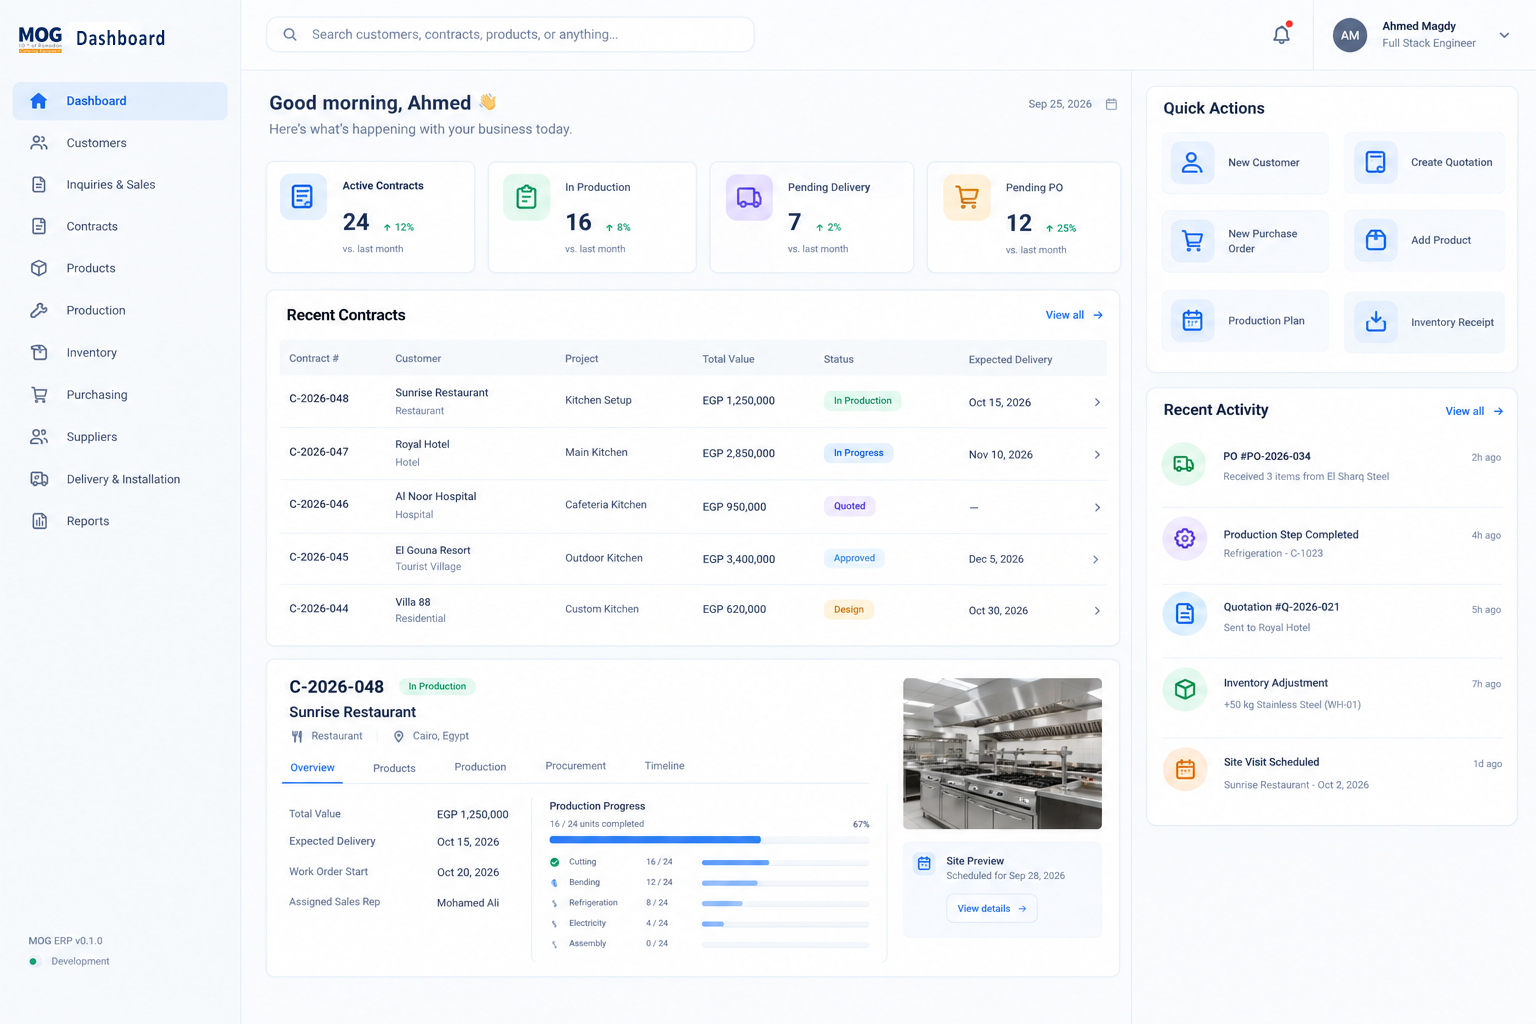
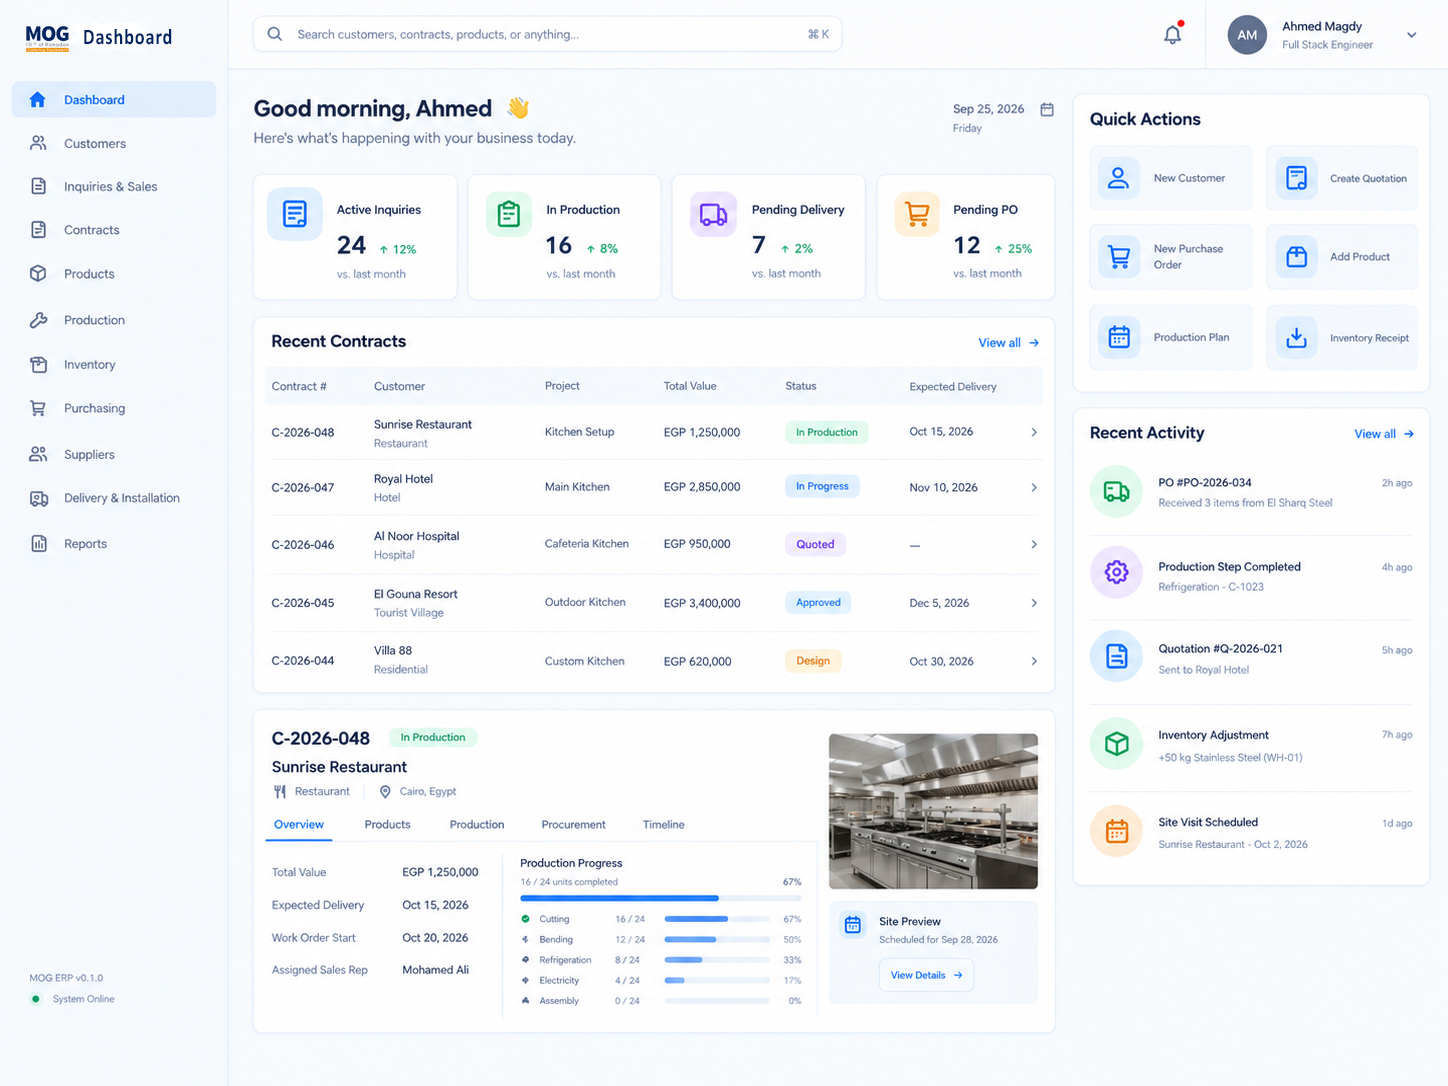
Refactor ProjectCard component to enhance image accessibility and layout. Wrap project image in a link for direct access, improving user interaction and visual presentation.

diff --git a/src/components/project-card.tsx b/src/components/project-card.tsx
@@ -5,20 +5,28 @@ export default function ProjectCard({ project }: { project: Project }) {
   return (
     <div className="relative flex flex-col gap-4 rounded-3xl border border-gray-800 p-5 sm:p-6">
       {/* Project Image */}
-      <figure
-        style={{ backgroundImage: "radial-gradient(circle, #426090, #13162d)", aspectRatio: "5/3" }}
-        className="relative flex w-full justify-center overflow-hidden rounded-xl md:rounded-3xl"
+      <a
+        href={project.img}
+        target="_blank"
+        rel="noopener noreferrer"
+        aria-label={`Open ${project.title} image`}
+        className="block opacity-100 transition-opacity hover:opacity-80"
       >
-        <div className="relative mt-[7.5px] h-[calc(100%+10px)] w-[90%]">
-          <Image
-            src={project.img}
-            alt={project.title}
-            fill
-            sizes="(max-width: 768px) 100vw, 50vw"
-            className="rotate-3 rounded-md object-cover object-top shadow"
-          />
-        </div>
-      </figure>
+        <figure
+          style={{ backgroundImage: "radial-gradient(circle, #426090, #13162d)", aspectRatio: "5/3" }}
+          className="relative flex w-full cursor-pointer justify-center overflow-hidden rounded-xl md:rounded-3xl"
+        >
+          <div className="relative mt-[7.5px] h-[calc(100%+10px)] w-[90%]">
+            <Image
+              src={project.img}
+              alt={project.title}
+              fill
+              sizes="(max-width: 768px) 100vw, 50vw"
+              className="rotate-3 rounded-md object-cover object-top shadow"
+            />
+          </div>
+        </figure>
+      </a>
 
       <div className="flex flex-1 flex-col justify-between gap-4">
         <div className="flex flex-col gap-2">
